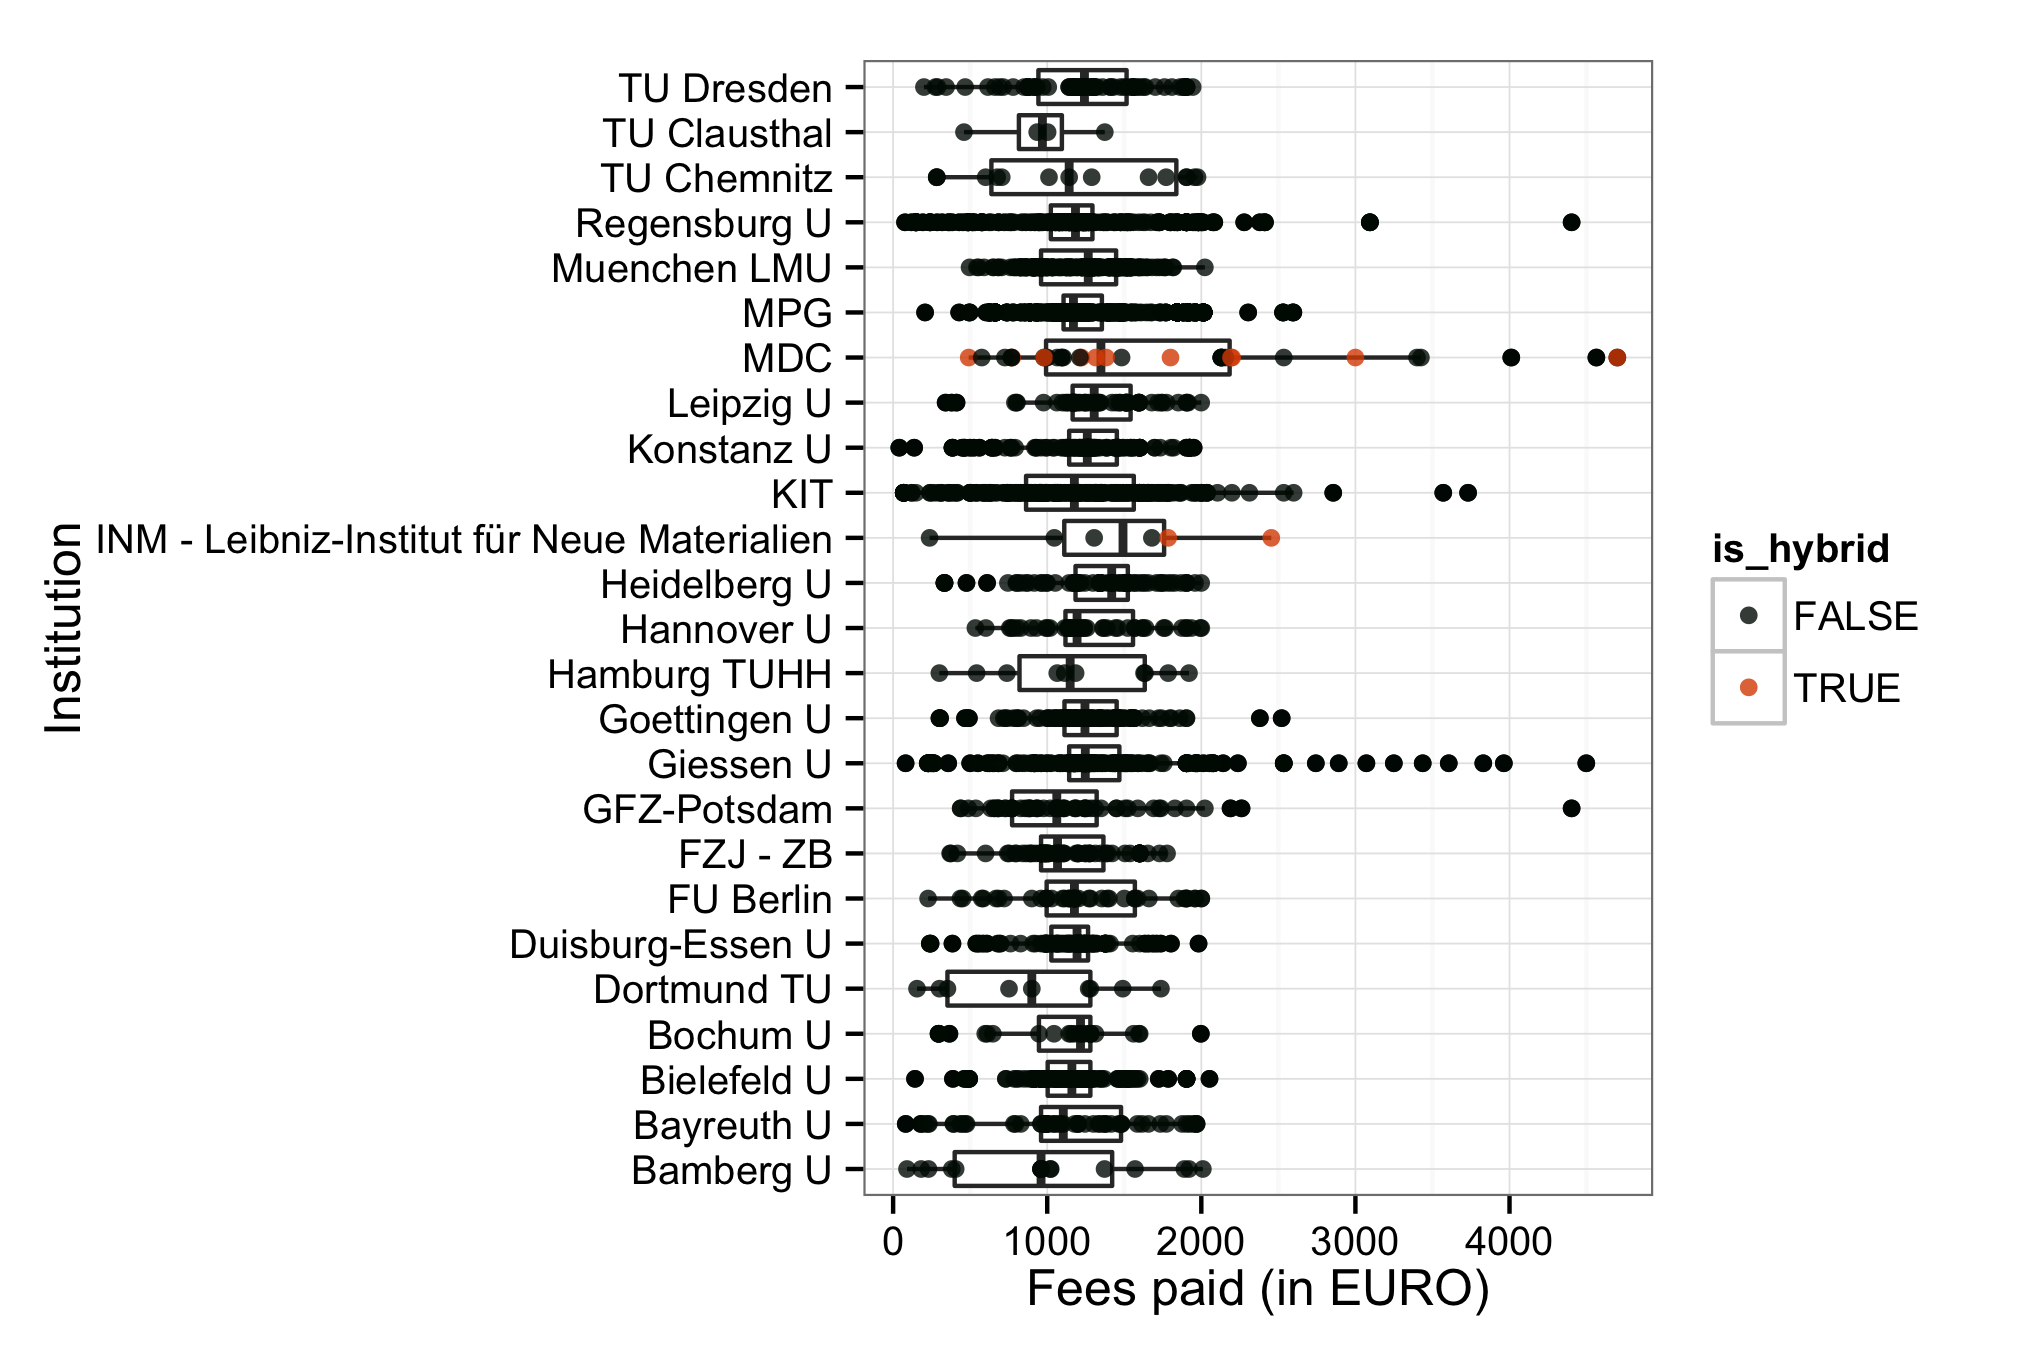
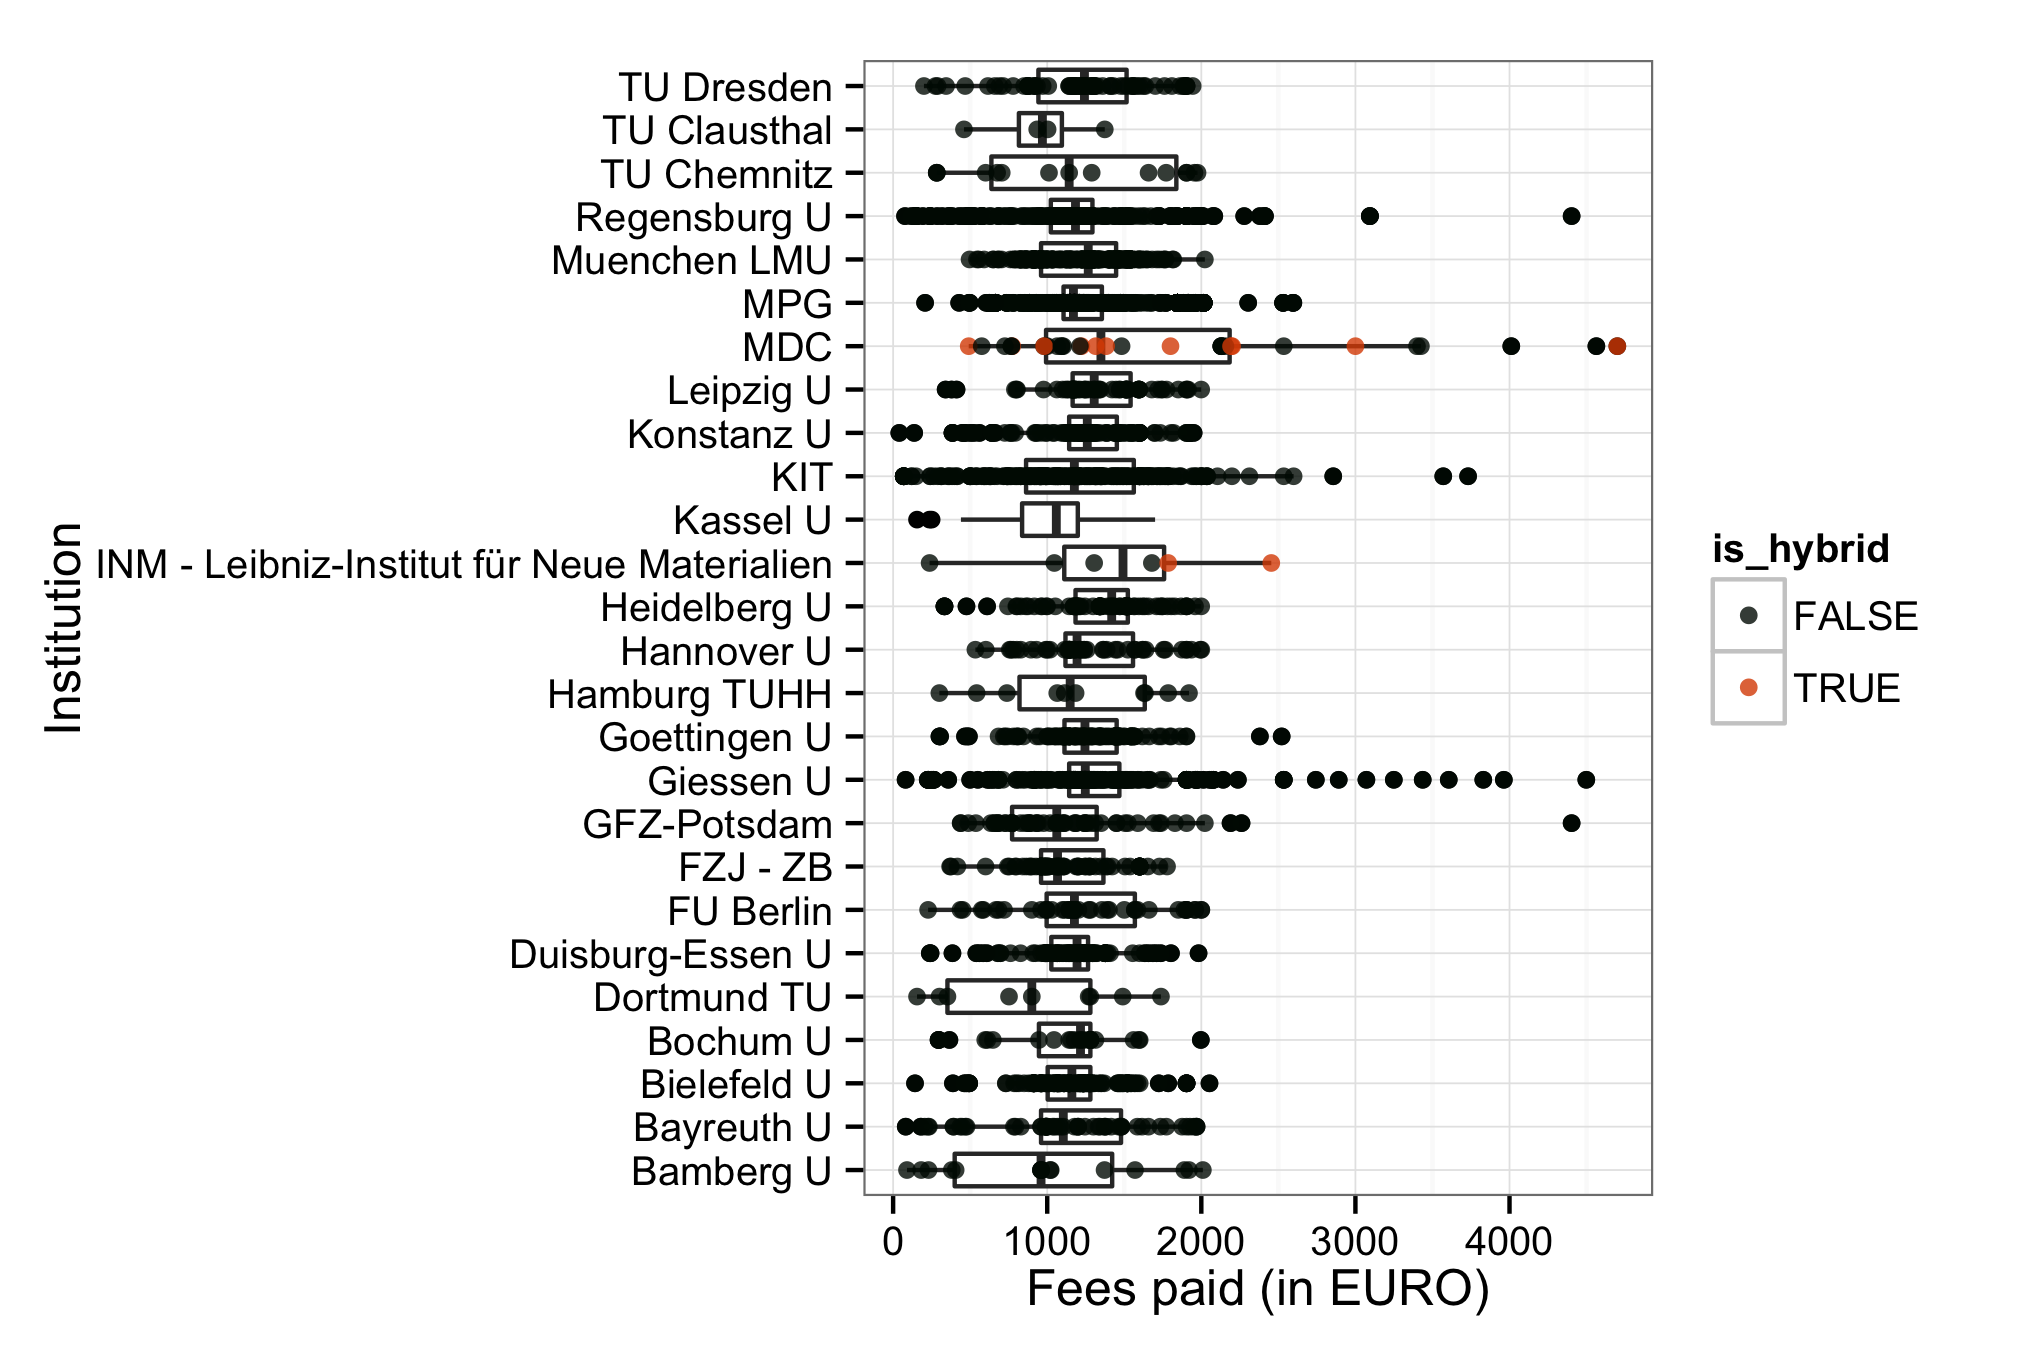
uni kassel #47

diff --git a/README.md b/README.md
@@ -56,13 +56,13 @@ ation/library)
 
 Information on both open access journal articles and open access publication of articles in toll-access journals ("hybrid") are provided.
 
-In total,  4 035 491€ for  3 276 articles were paid by the participating unviversities. Average  fee is 1 231.8€ and the median 1 200€.
+In total,  4 058 377€ for  3 299 articles were paid by the participating unviversities. Average  fee is 1 230.2€ and the median 1 196€.
 
 ### Open Access Journals
 
 
 
-At the moment, the dataset releases information on 3 263 articles in open access journals which charge publication fees. Total expenditure amounts to  4 011 197€. Average  fee is 1 229.3€ and the median 1 197€.
+At the moment, the dataset releases information on 3 286 articles in open access journals which charge publication fees. Total expenditure amounts to  NA€. Average  fee is NA€ and the median NA€.
 
 View dataset on [GitHub](https://github.com/OpenAPC/openapc-de/blob/master/data/apc_de.csv).
 
@@ -84,6 +84,7 @@ View dataset on [GitHub](https://github.com/OpenAPC/openapc-de/blob/master/data/
 |Hannover U                                  |       50|             63908|          1278|   1194|
 |Heidelberg U                                |       83|            112238|          1352|   1418|
 |INM - Leibniz-Institut für Neue Materialien |        4|              4266|          1067|   1175|
+|Kassel U                                    |       NA|                NA|            NA|     NA|
 |KIT                                         |      293|            345311|          1179|   1176|
 |Konstanz U                                  |      131|            163374|          1247|   1260|
 |Leipzig U                                   |       60|             79603|          1327|   1305|
@@ -99,7 +100,7 @@ View dataset on [GitHub](https://github.com/OpenAPC/openapc-de/blob/master/data/
 
 
 In many toll-access journals some of the articles are open access after a fee has been paid. This model is often called "hybrid open access".
-The dataset covers 13 hybrid open access articles. Total expenditure amounts to  24 293€. Average  fee is 1 868.7€ and the median 1 785€.
+The dataset covers 36 hybrid open access articles. Total expenditure amounts to  NA€. Average  fee is NA€ and the median NA€.
 
 The following institutions have contributed its expenditures for hybrid open access.
 
